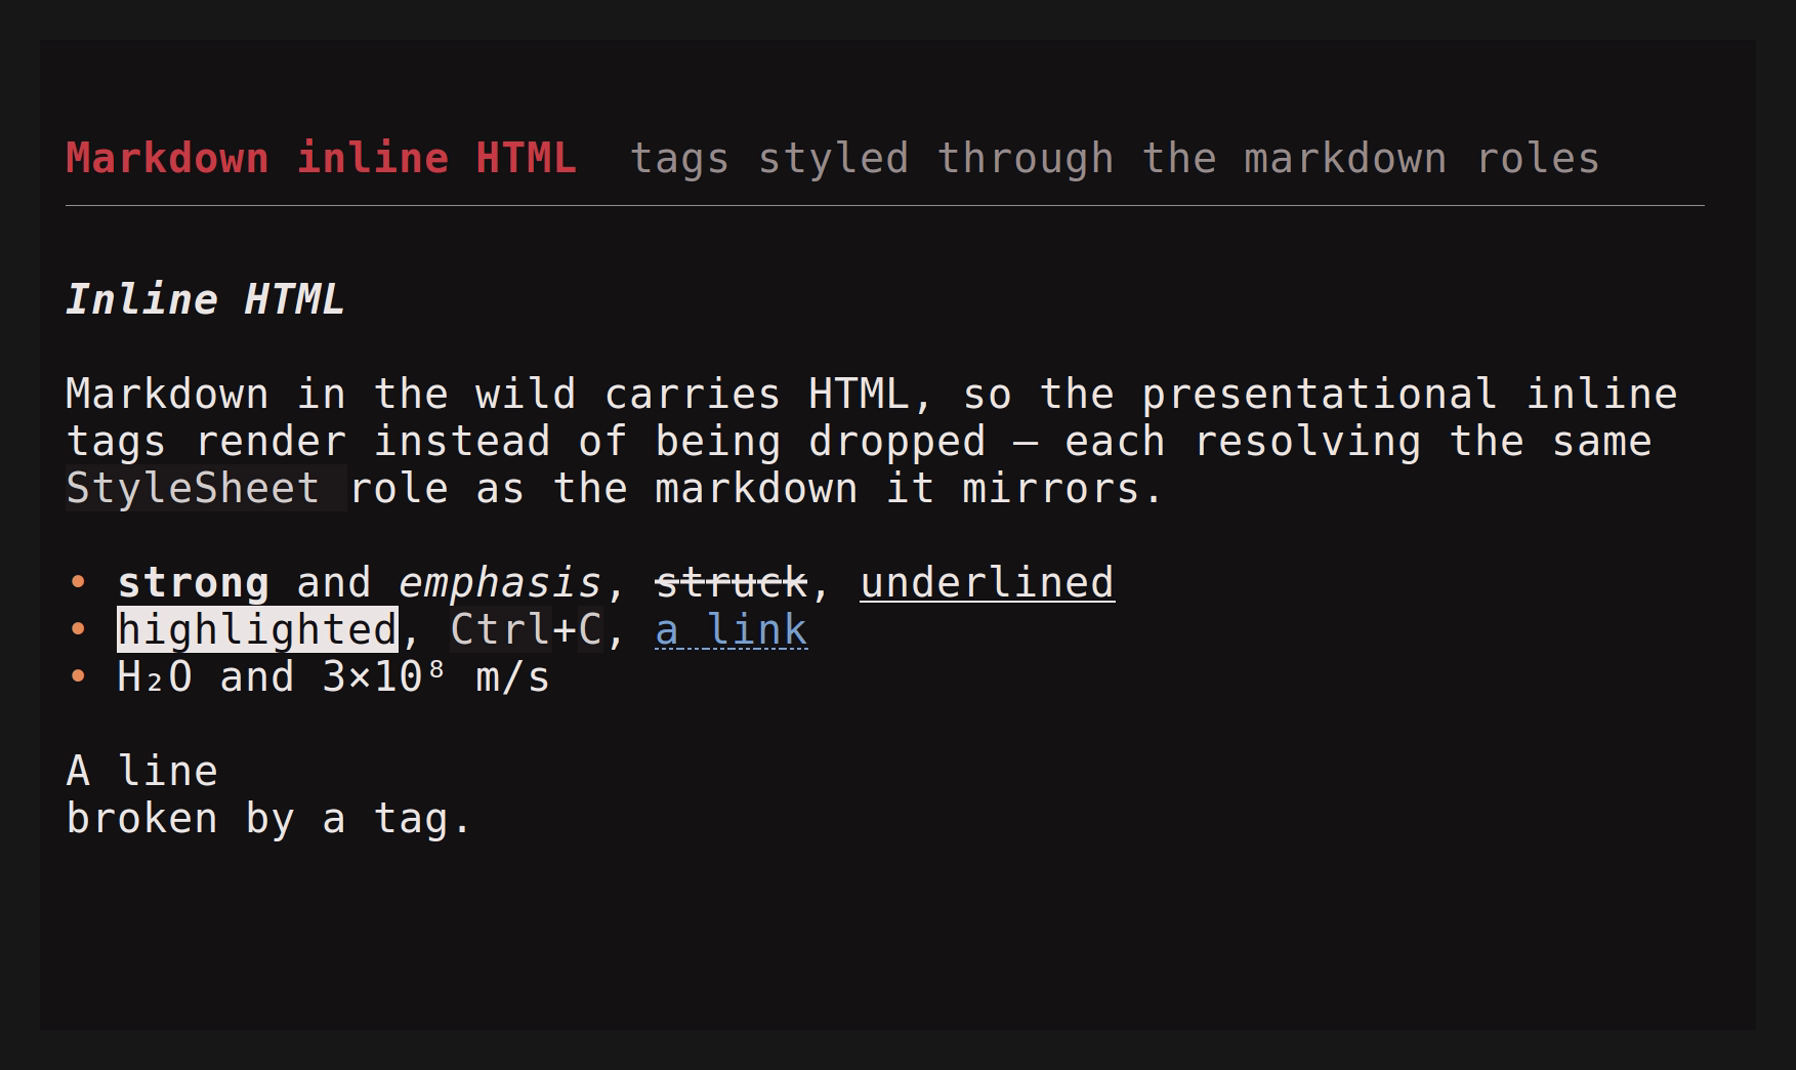
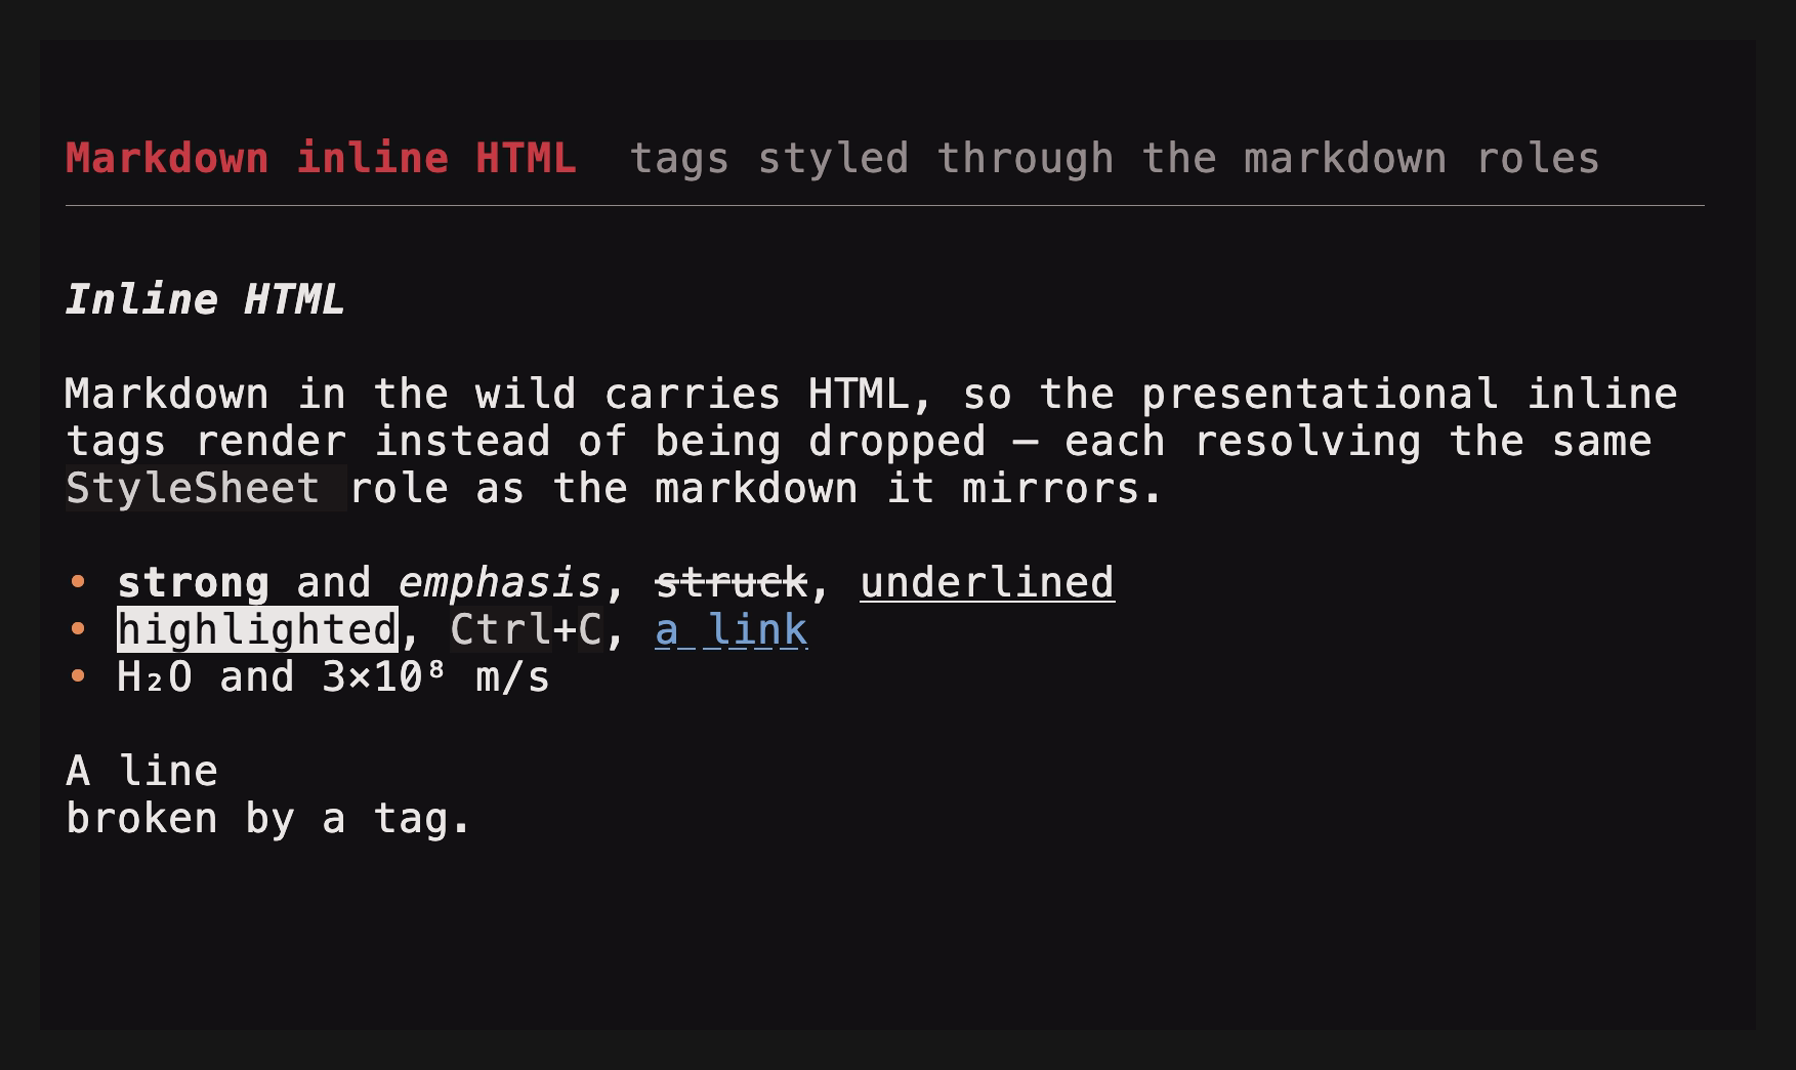
chore(release): prepare v0.7.0

diff --git a/CHANGELOG.md b/CHANGELOG.md
@@ -11,10 +11,26 @@ those `.crate` files. Their sources remain on
 [crates.io](https://crates.io/crates/tuika/versions); the tag and release history
 described in the release process begins with the entry below.
 
-## Unreleased
+## [0.7.0] - 2026-07-31
 
 Released alongside `tuika-html` 0.1.0, the new companion crate behind the
-block-HTML seam.
+block-HTML seam, plus `tuika-codeformatters` 0.4.0 and `tuika-mermaid` 0.2.0.
+The existing companions adopt tuika 0.7's breaking view-measurement API and
+update their tuika dependency requirement in the same release.
+
+### Highlights
+
+**Responsive application primitives.** Docked panels, target-relative overlays,
+virtualized collections, semantic styles, and single-line input give hosts a
+coherent framework for complex terminal applications without retained UI state.
+
+![primitives demo](https://raw.githubusercontent.com/everruns/tuika/v0.7.0/docs/demos/primitives.gif)
+
+**Rich HTML in Markdown.** Presentational inline HTML now shares Markdown's
+styles, while the new parser-free `HtmlBlockRenderer` seam lets `tuika-html`
+render styled block HTML without adding a parser to tuika core.
+
+![markdown HTML demo](https://raw.githubusercontent.com/everruns/tuika/v0.7.0/docs/demos/markdown_html.png)
 
 ### Added
 
